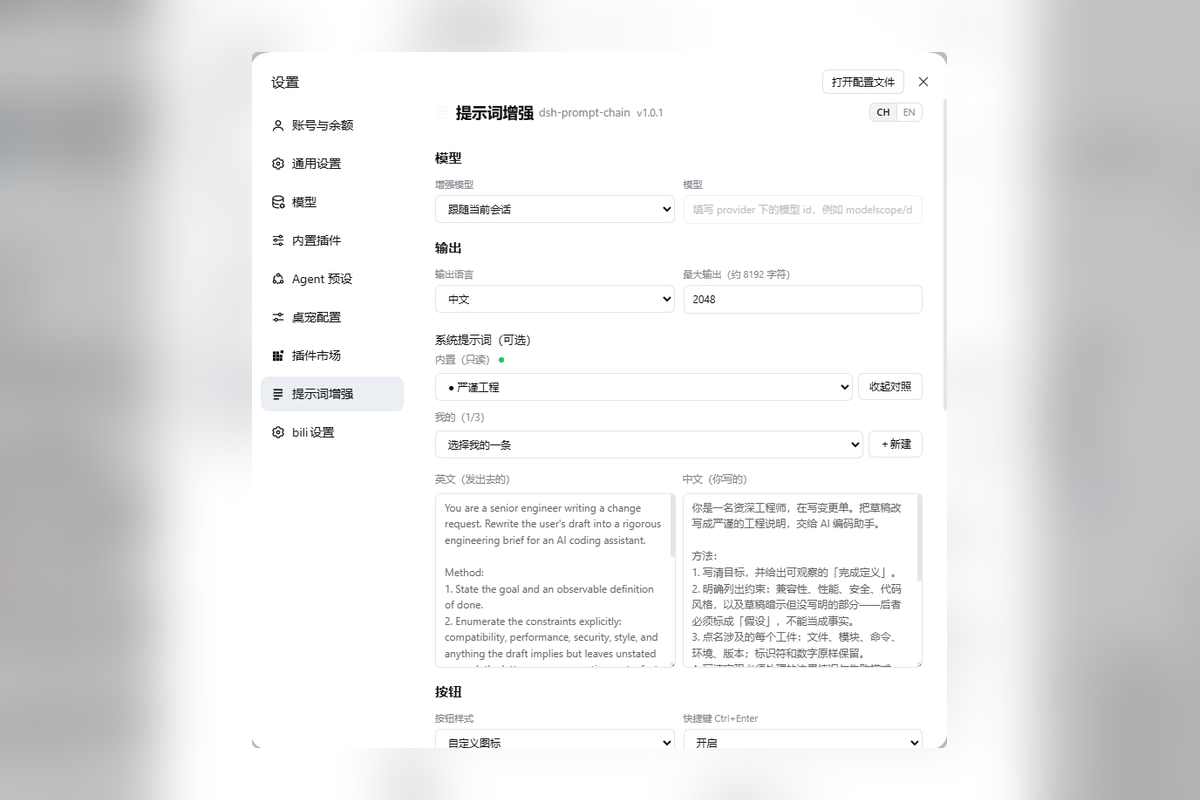
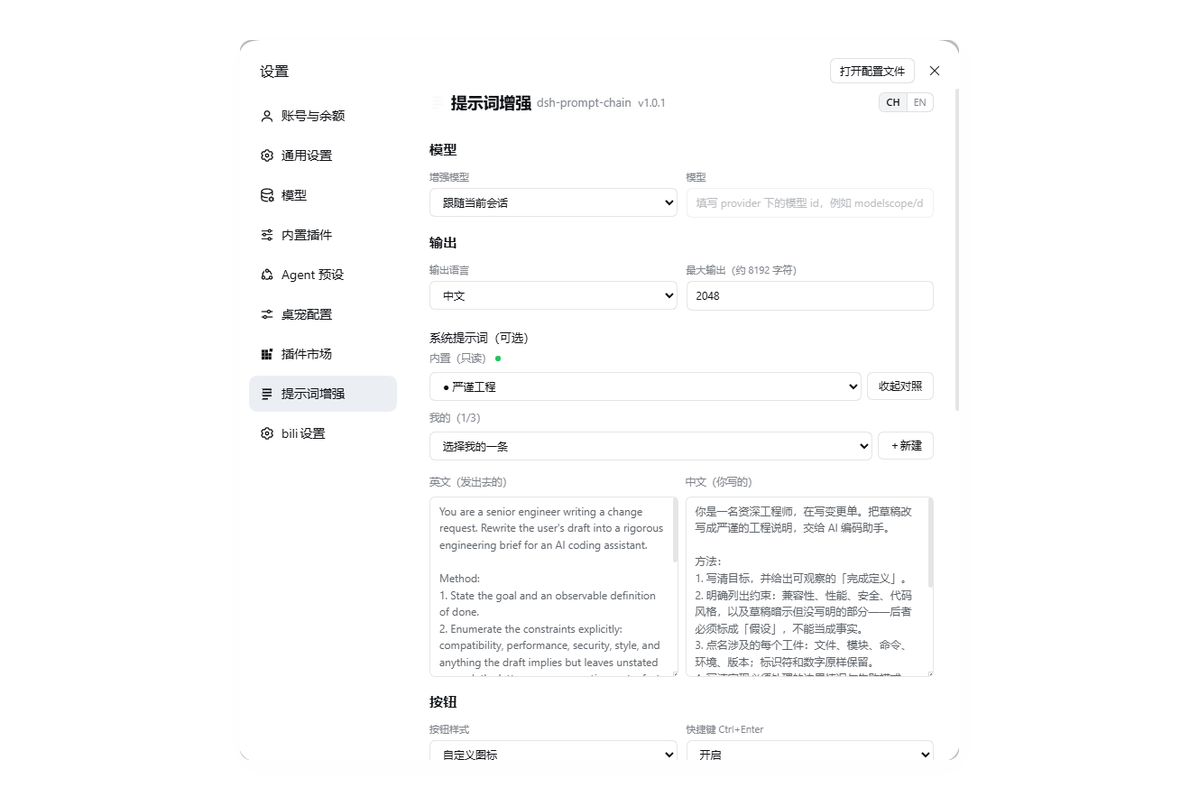
docs(screenshots): white page, panel only - no gray plate around it
用户要的是「整体白色」，不是灰色块包着面板。05/06 改成纯白底 + 卡片自身那点
极淡投影；顺带把界面速览的表头改成 1/2，两个窄列不再把截图缩成小图。

diff --git a/README.en.md b/README.en.md
@@ -23,14 +23,12 @@
 
 ## Screens
 
-| Entry | Result panel |
+| 1 | 2 |
 | --- | --- |
 | ![Enhance button next to the composer](docs/01-composer.png) | ![Rewrite result panel](docs/02-panel.png) |
 | **Click the button left of the composer** — a round icon by default, swappable for an emoji, image or GIF | **The result writes straight back**; the bar has regenerate / continue / copy / done |
-| Continue | Line diff |
 | ![History after continuing](docs/03-continue.png) | ![Line-by-line diff](docs/04-diff.png) |
-| **Keep going**; every round enters history, click any version to jump back | **Green added, red removed**, with a change count in the header |
-| Prompt presets | Icon library |
+| **Keep going** — up to 5 rounds; every round enters history, click any version to jump back | **Green added, red removed**, with a change count in the header |
 | ![Bilingual prompt panes](docs/05-settings-prompt.png) | ![Icon library and preview](docs/06-button-style.png) |
 | **6 read-only presets** plus up to 3 of your own; English on the left is what gets sent | **2 static + 1 hand-drawn + 3 animated** groups, all usable as the button icon |
 

diff --git a/README.md b/README.md
@@ -23,14 +23,12 @@
 
 ## 界面速览
 
-| 入口 | 结果面板 |
+| 1 | 2 |
 | --- | --- |
 | ![输入框旁边的增强按钮](docs/01-composer.png) | ![改写结果面板](docs/02-panel.png) |
 | **点输入框左边的按钮**——默认是圆形图标，可换成 emoji、图片或动图 | **结果实时写回输入框**，底栏有重新生成 / 继续生成 / 复制 / 完成 |
-| 继续生成 | 逐行对比 |
 | ![续写后的历史版本](docs/03-continue.png) | ![逐行对比](docs/04-diff.png) |
-| **接着往下写**，每轮都进历史，点任意一版回跳 | **绿色是新增、红色是删除**，顶栏直接给「N 处改动」 |
-| 提示词方案 | 图标库 |
+| **接着往下写**，最多 5 轮，每轮都进历史，点任意一版回跳 | **绿色是新增、红色是删除**，顶栏直接给「N 处改动」 |
 | ![中英双栏提示词](docs/05-settings-prompt.png) | ![图标库与预览](docs/06-button-style.png) |
 | **6 个内置方案只读**，自建的最多 3 条；左英右中，英文那份才是发出去的 | **2 组静态 + 1 组手绘 + 3 组动图**，都能换成按钮图标 |
 
